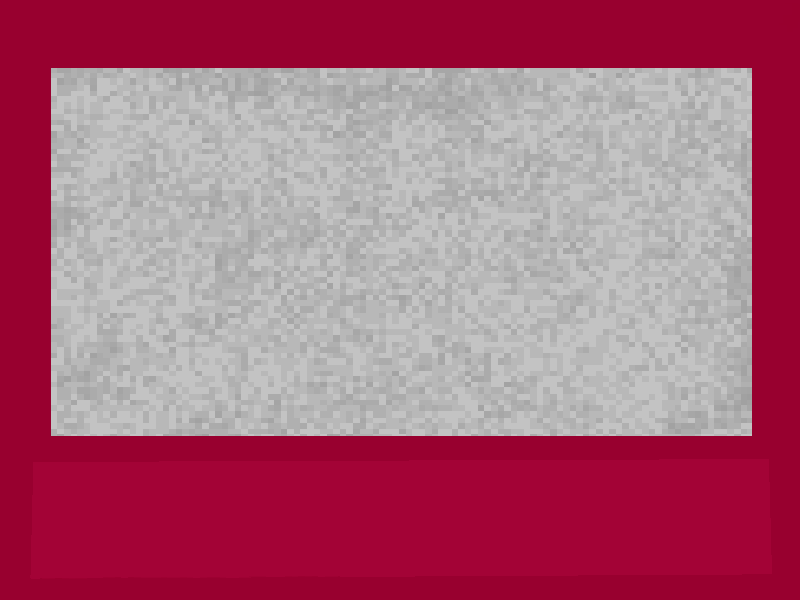
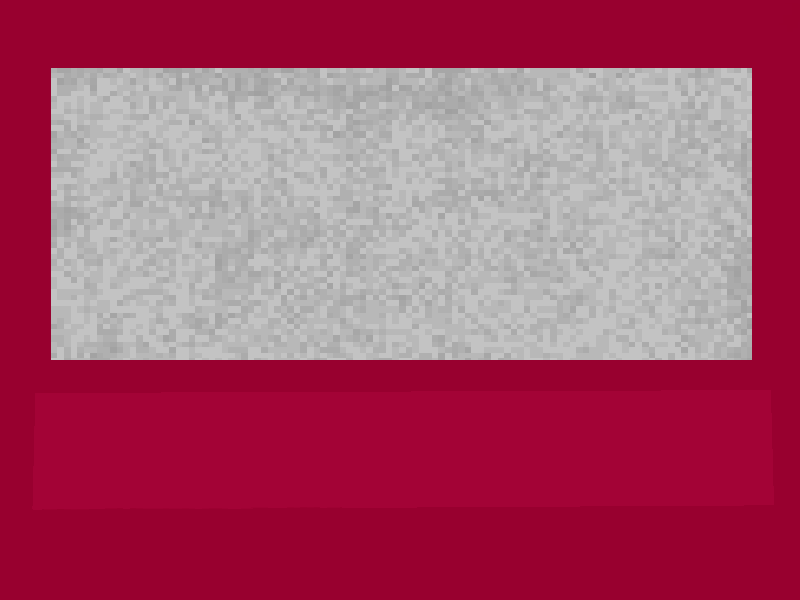
práce na slot machine

Changed region(s): [[0.0625, 0.6, 0.9375, 0.75]]

diff --git a/hra.py b/hra.py
@@ -161,6 +161,7 @@ zelena = (29, 166, 14)
 modra = (59, 64, 207)
 fialova = (130, 49, 196)
 oranzova = (190, 149, 90)
+zluta_bet = (255, 242, 0)
 
 
 #inventar
@@ -582,6 +583,69 @@ za_barman_exit = pygame.draw.rect(okno, cerna, (9, 544 , 102, 52))
 barman_exit = pygame.draw.rect(okno, hneda, (10, 545 , 100, 50))
 
 slotmachine = pygame.image.load("slotmachine.png")
+za_slotmachine_exit = pygame.draw.rect(okno, cerna, (19, 529 , 102, 52))
+slotmachine_exit = pygame.draw.rect(okno, bila, (20, 530 , 100, 50))
+
+sazka_velikost_x = 100
+sazka_velikost_y = 100
+
+sazka_50_cena = 50
+sazka_200_cena = 200
+sazka_500_cena = 500
+sazka_1000_cena = 1000
+
+
+
+
+
+toceni_znaku = False
+toceni_cas_start = 0
+toceni_doba = 1500  # ms jak dlouho se "točí"
+sazka_aktualni = 0
+
+slot_vysledky = [0, 0, 0]  # indexy výsledků pro každý slot
+slot_animace_indexy = [0, 0, 0]  # indexy pro animaci točení
+slot_animace_rychlost = 3  # každých N framů přepne symbol
+
+# 4 symboly – nahraď svými obrázky
+slot_symboly = [
+    pygame.image.load("bread_bait_ikona.png"),
+    pygame.image.load("worm_bait_ikona.png"),
+    pygame.image.load("corn_bait_ikona.png"),
+    pygame.image.load("fish_head_bait.png"),
+]
+
+# Výhry podle kombinací (kolikrát sazka)
+slot_vyhry = {
+    (0, 0, 0): 2,    # 3x plechovka → 2x sazka
+    (1, 1, 1): 5,    # 3x kapr → 5x sazka
+    (2, 2, 2): 10,   # 3x štika → 10x sazka
+    (3, 3, 3): 50,   # 3x coin → 50x sazka (jackpot)
+}
+
+slot_zprava = ""
+slot_zprava_cas = 0
+slot_zprava_doba = 2500
+
+
+
+
+
+za_sazka_50 = pygame.draw.rect(okno, cerna, (79, 399 , sazka_velikost_x + 2, sazka_velikost_y + 2))
+sazka_50 = pygame.draw.rect(okno, zluta, (80, 400 , sazka_velikost_x, sazka_velikost_y))
+
+za_sazka_200 = pygame.draw.rect(okno, cerna, (159 + sazka_velikost_x, 399 , sazka_velikost_x + 2, sazka_velikost_y + 2))
+sazka_200 = pygame.draw.rect(okno, zluta, (160 + sazka_velikost_x, 400 , sazka_velikost_x, sazka_velikost_y))
+
+za_sazka_500 = pygame.draw.rect(okno, cerna, (239 + sazka_velikost_x + sazka_velikost_x, 399 , sazka_velikost_x + 2, sazka_velikost_y + 2))
+sazka_500 = pygame.draw.rect(okno, zluta, (240 + sazka_velikost_x + sazka_velikost_x, 400 , sazka_velikost_x, sazka_velikost_y))
+
+za_sazka_1000 = pygame.draw.rect(okno, cerna, (319 + sazka_velikost_x + sazka_velikost_x + sazka_velikost_x, 399 , sazka_velikost_x + 2, sazka_velikost_y + 2))
+sazka_1000 = pygame.draw.rect(okno, zluta, (320 + sazka_velikost_x + sazka_velikost_x + sazka_velikost_x, 400 , sazka_velikost_x, sazka_velikost_y))
+
+
+
+
 garaz = pygame.image.load("garaz.png")
 
 bouda_zamcena = pygame.image.load("bouda_zamcena.png")
@@ -814,6 +878,8 @@ pocty_automechanik_font = pygame.font.SysFont("Aharoni", 25)
 cena_automechanik_font = pygame.font.Font("CHAOS16.otf", 30)
 fix_kapota_font = pygame.font.SysFont("Aharoni", 35)
 predmety_kapota_nadpis_font = pygame.font.SysFont("Aharoni", 50)
+bet_napis_font = pygame.font.SysFont("Aharoni", 20)
+bet_cena_font = pygame.font.Font("CHAOS16.otf", 30)
 
 hlaska_font = pygame.font.SysFont("Aharoni", hlaska_velikost)
 shop_hlaska = random.choice(seznam_vet)
@@ -950,8 +1016,8 @@ while not hra and not animace_start:
             mys_pozice = pygame.mouse.get_pos()
             
             if play_tlacitko_rect.collidepoint(mys_pozice):
-                animace_start = True
-                pygame.mouse.set_cursor(pygame.SYSTEM_CURSOR_ARROW)
+                #animace_start = True
+                hra = True
                 break
                 
             
@@ -1638,7 +1704,20 @@ while hra is True:
                 zizen += zizen_pivo
                 hlad += hlad_pivo
                 coins -= pivo_cena
+    
+    if pozadi == slotmachine:
+        if slotmachine_exit.collidepoint(mys_pozice) and mouse_click and not inventar and not toceni_znaku:
+            pozadi = bar
+            hrac_pozice_x = 0
+            kamera_x = 0
+            hrac_rychlost = 0
+            pozadi_sirka = pozadi.get_width()
+            pozadi_vyska = pozadi.get_height()
+        
+        
             
+        
+    
     stojim_u_boudy = hrac_pozice_x > 320 and hrac_pozice_x < 415
     
     if stojim_u_boudy and stisknuto[pygame.K_e] and pozadi == rozcestnik and not inventar:
@@ -2234,13 +2313,13 @@ while hra is True:
     elif pozadi == automechanik and automechanik_exit.collidepoint(mys_pozice) and not inventar:
         pygame.mouse.set_cursor(pygame.SYSTEM_CURSOR_HAND)
     
-    elif not zapnuti and zapnuti_statistik.collidepoint(mys_pozice) and pozadi != rybareni and not inventar and pozadi != bar and pozadi != barman and pozadi != shop and not shop_mode == "sell" and not shop_mode == "buy" and not prut and not minihra and pozadi != pozadi_shop_jidlo and pozadi != bouda_zamcena and pozadi != bouda_odemcena and pozadi != automechanik and pozadi != kapota:
+    elif not zapnuti and zapnuti_statistik.collidepoint(mys_pozice) and pozadi != rybareni and not inventar and pozadi != bar and pozadi != barman and pozadi != shop and not shop_mode == "sell" and not shop_mode == "buy" and not prut and not minihra and pozadi != pozadi_shop_jidlo and pozadi != bouda_zamcena and pozadi != bouda_odemcena and pozadi != automechanik and pozadi != kapota and pozadi != slotmachine:
         pygame.mouse.set_cursor(pygame.SYSTEM_CURSOR_HAND)
     
     elif not zapnuti and zapnuti_statistik_rybareni.collidepoint(mys_pozice) and not inventar and pozadi == rybareni:
         pygame.mouse.set_cursor(pygame.SYSTEM_CURSOR_HAND)
 
-    elif zapnuti and vypnuti_statistik.collidepoint(mys_pozice) and not inventar and pozadi != bar and pozadi != barman and pozadi != shop and not shop_mode == "sell" and not shop_mode == "buy" and not prut and not minihra and pozadi != pozadi_shop_jidlo and pozadi != bouda_zamcena and pozadi != bouda_odemcena and pozadi != automechanik and pozadi != kapota:
+    elif zapnuti and vypnuti_statistik.collidepoint(mys_pozice) and not inventar and pozadi != bar and pozadi != barman and pozadi != shop and not shop_mode == "sell" and not shop_mode == "buy" and not prut and not minihra and pozadi != pozadi_shop_jidlo and pozadi != bouda_zamcena and pozadi != bouda_odemcena and pozadi != automechanik and pozadi != kapota and pozadi != slotmachine:
         pygame.mouse.set_cursor(pygame.SYSTEM_CURSOR_HAND)
          
     elif pozadi == bar and bar_exit.collidepoint(mys_pozice) and not inventar:
@@ -2265,6 +2344,21 @@ while hra is True:
         pygame.mouse.set_cursor(pygame.SYSTEM_CURSOR_HAND)
 
     elif pozadi == barman and pivo_buy.collidepoint(mys_pozice) and not inventar:
+        pygame.mouse.set_cursor(pygame.SYSTEM_CURSOR_HAND)
+        
+    elif pozadi == slotmachine and slotmachine_exit.collidepoint(mys_pozice) and not inventar and not toceni_znaku:
+        pygame.mouse.set_cursor(pygame.SYSTEM_CURSOR_HAND)
+        
+    elif pozadi == slotmachine and za_sazka_50.collidepoint(mys_pozice) and not inventar and not toceni_znaku:
+        pygame.mouse.set_cursor(pygame.SYSTEM_CURSOR_HAND)
+
+    elif pozadi == slotmachine and za_sazka_200.collidepoint(mys_pozice) and not inventar and not toceni_znaku:
+        pygame.mouse.set_cursor(pygame.SYSTEM_CURSOR_HAND)
+
+    elif pozadi == slotmachine and za_sazka_500.collidepoint(mys_pozice) and not inventar and not toceni_znaku:
+        pygame.mouse.set_cursor(pygame.SYSTEM_CURSOR_HAND)
+
+    elif pozadi == slotmachine and za_sazka_1000.collidepoint(mys_pozice) and not inventar and not toceni_znaku:
         pygame.mouse.set_cursor(pygame.SYSTEM_CURSOR_HAND)
 
     elif pozadi == shop and (buy.collidepoint(mys_pozice) or sell.collidepoint(mys_pozice) or leave.collidepoint(mys_pozice)):
@@ -2322,8 +2416,7 @@ while hra is True:
         pygame.mouse.set_cursor(pygame.SYSTEM_CURSOR_HAND)
         
     elif pozadi == pozadi_shop and shop_mode == "buy" and baits_upgrade.collidepoint(mys_pozice):
-        pygame.mouse.set_cursor(pygame.SYSTEM_CURSOR_HAND)
-        
+        pygame.mouse.set_cursor(pygame.SYSTEM_CURSOR_HAND)     
         
     elif pozadi == automechanik and pneumatiky_rect.collidepoint(mys_pozice) and not inventar:
         if pneumatiky_pocet > 0:
@@ -2412,7 +2505,7 @@ while hra is True:
         pygame.draw.rect(okno, hneda, exit_bouda_odemcena)
         okno.blit(exit_bouda_odemcena_text, (36, 32))
         
-    if not zapnuti and not inventar and pozadi != bar and pozadi != barman and pozadi != shop and not shop_mode == "sell" and not shop_mode == "buy" and pozadi and not minihra and not prut and pozadi != pozadi_shop_jidlo and pozadi != bouda_zamcena and pozadi != bouda_odemcena and pozadi != automechanik and pozadi != kapota:
+    if not zapnuti and not inventar and pozadi != bar and pozadi != barman and pozadi != shop and not shop_mode == "sell" and not shop_mode == "buy" and pozadi and not minihra and not prut and pozadi != pozadi_shop_jidlo and pozadi != bouda_zamcena and pozadi != bouda_odemcena and pozadi != automechanik and pozadi != kapota and pozadi != slotmachine:
         if pozadi == rybareni:
             pygame.draw.rect(okno, cerna, (4, 564, 82, 32))
             pygame.draw.rect(okno, hneda, (5, 565, 80, 30))
@@ -2427,12 +2520,12 @@ while hra is True:
         pygame.draw.rect(okno, bila, (info_rozcestnik_obrazovka_x - 1179, 250, 50, 50))
         okno.blit(E_text, (info_rozcestnik_obrazovka_x - 1179 + (50/2 - E_text.get_size()[0] / 2), 263))
     
-    if zapnuti and not inventar and pozadi != bar and pozadi != barman and pozadi != shop and not shop_mode == "sell" and not shop_mode == "buy" and not prut and not minihra and pozadi != pozadi_shop_jidlo and pozadi != bouda_zamcena and pozadi != bouda_odemcena and pozadi != automechanik and pozadi != kapota:
+    if zapnuti and not inventar and pozadi != bar and pozadi != barman and pozadi != shop and not shop_mode == "sell" and not shop_mode == "buy" and not prut and not minihra and pozadi != pozadi_shop_jidlo and pozadi != bouda_zamcena and pozadi != bouda_odemcena and pozadi != automechanik and pozadi != kapota and pozadi != slotmachine:
         pygame.draw.rect(okno, cerna, za_vypnuti_statistik)
         pygame.draw.rect(okno, hneda, vypnuti_statistik)
         okno.blit(vypnuti_statistik_ikona, (360, 5, 80, 30))
 
-    if zapnuti and pozadi != shop and not inventar and not minihra and not prut and pozadi != bar and pozadi != barman and pozadi != slotmachine and pozadi != pozadi_shop_jidlo and pozadi != bouda_zamcena and pozadi != bouda_odemcena and pozadi != automechanik and pozadi != kapota:
+    if zapnuti and pozadi != shop and not inventar and not minihra and not prut and pozadi != bar and pozadi != barman and pozadi != slotmachine and pozadi != pozadi_shop_jidlo and pozadi != bouda_zamcena and pozadi != bouda_odemcena and pozadi != automechanik and pozadi != kapota and pozadi != slotmachine:
         pygame.draw.rect(okno, cerna, (4 , 544, 102 , 52))
         pygame.draw.rect(okno, Shneda, (5 , 545, 100 , 50))
         hlad_info = statistika_font.render(f"{int(hlad)}/100", True, cerna)
@@ -2559,6 +2652,45 @@ while hra is True:
         okno.blit(zizen_ikona, (540 , 545, 100 , 50))
         okno.blit(zizen_info, (588, 565, 100, 50))
         okno.blit(zizen_text, (586, 545, 100, 50))
+    
+    if pozadi == slotmachine and not toceni_znaku:
+        pygame.draw.rect(okno, cerna, za_slotmachine_exit)
+        pygame.draw.rect(okno, hneda, slotmachine_exit)
+        exit_slotmachine_text = exit_kapota_font.render("EXIT", True, cerna)
+        okno.blit(exit_slotmachine_text, (36, 543))
+        
+        pygame.draw.rect(okno, cerna, za_sazka_50)
+        pygame.draw.rect(okno, zluta_bet, sazka_50)
+        
+        pygame.draw.rect(okno, cerna, za_sazka_200)
+        pygame.draw.rect(okno, zluta_bet, sazka_200)
+        
+        pygame.draw.rect(okno, cerna, za_sazka_500)
+        pygame.draw.rect(okno, zluta_bet, sazka_500)
+        
+        pygame.draw.rect(okno, cerna, za_sazka_1000)
+        pygame.draw.rect(okno, zluta_bet, sazka_1000)
+        
+        bet_napis_text = bet_napis_font.render("BET:", True, cerna)
+        bet_50_cena_text = bet_cena_font.render(f"{sazka_50_cena}", True, cerna)
+        bet_200_cena_text = bet_cena_font.render(f"{sazka_200_cena}", True, cerna)
+        bet_500_cena_text = bet_cena_font.render(f"{sazka_500_cena}", True, cerna)
+        bet_1000_cena_text = bet_cena_font.render(f"{sazka_1000_cena}", True, cerna)
+        
+        okno.blit(bet_napis_text, (115, 406))
+        okno.blit(bet_napis_text, (295, 406))
+        okno.blit(bet_napis_text, (475, 406))
+        okno.blit(bet_napis_text, (655, 406))
+        
+        okno.blit(bet_50_cena_text, (105, 436))
+        okno.blit(bet_200_cena_text, (275, 436))
+        okno.blit(bet_500_cena_text, (455, 436))
+        okno.blit(bet_1000_cena_text, (630, 436))
+        
+        okno.blit(coin_ikona, (135, 436))
+        okno.blit(coin_ikona, (320, 436))
+        okno.blit(coin_ikona, (500, 436))
+        okno.blit(coin_ikona, (685, 436))
         
     if pozadi == rozcestnik and stojim_u_auta:
         pygame.draw.rect(okno, cerna, (info_rozcestnik_obrazovka_x - 1401, 339, 52, 52))
